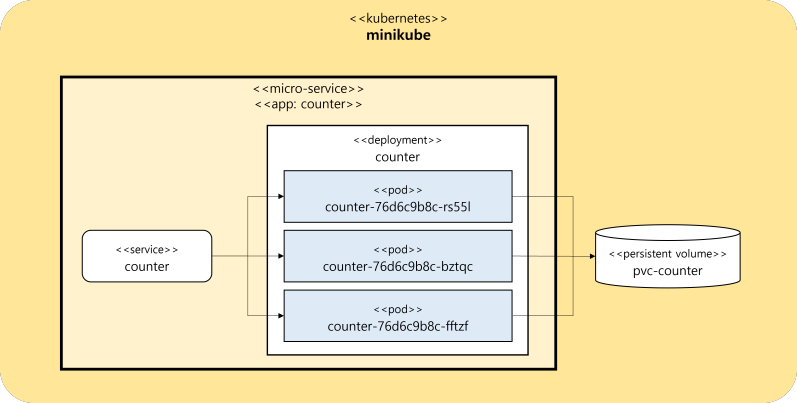
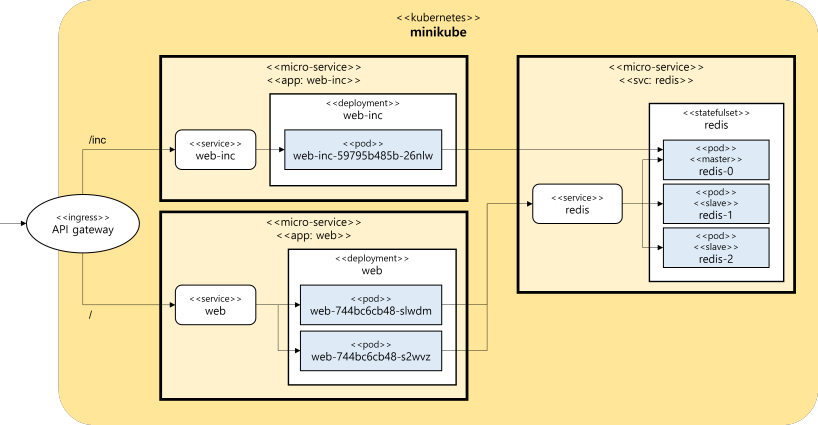
v4. Counter with Redis DB

diff --git a/server-inc.js b/server-inc.js
@@ -3,14 +3,14 @@ var redis = require('redis');
 
 http.createServer(function (request, response) {
     var redisClient = redis.createClient({
-        url:'redis://redis.default.svc.cluster.local:6379',
+        url:'redis://redis-0.redis.default.svc.cluster.local:6379',
         legacyMode:true
     });
     redisClient.connect();
 
-    redisClient.get('count', function (err, data) {
+    redisClient.incr('count', function (err, count) {
         response.writeHead(200, {'Content-Type': 'text/plain'});
-        response.end(data);
+        response.end(count.toString());
     });
 }).listen(8081);
 

diff --git a/README.md b/README.md
@@ -1,7 +1,8 @@
 # Kubernetes Example
-간단한 Counter를 만들고 Kubernetes에 배포한다.<p>
-count는 Persistent Volume에 count.txt에 저장한다.<p>
-<img src="https://github.com/bosornd/k8s-example/raw/v3-counter/images/deployment.png" width=100% />
+Redis DB를 master-slave로 구성하고 count를 저장한다.<p>
+count를 증가시키는 webInc와 count 값을 전달하는 web 서버를 별도로 구성한다.<p>
+Ingress API Gateway를 설정한다.<p>
+<img src="https://github.com/bosornd/k8s-example/raw/v4-counter-with-redis/images/deployment.png" width=100% />
 
 
 # minikube (Kubernetes cluster) 시작하기
@@ -9,33 +10,9 @@ count는 Persistent Volume에 count.txt에 저장한다.<p>
 C:\k8s-example> minikube start
 ```
 
-# docker image 빌드하기
-docker 환경을 minikube로 변경한다.
+ingress를 사용하기 위해서 addon을 활성화 해야 한다.
 ```
-C:\k8s-example> minikube docker-env
-SET DOCKER_TLS_VERIFY=1
-SET DOCKER_HOST=tcp://127.0.0.1:60807
-SET DOCKER_CERT_PATH=C:\Users\drajin\.minikube\certs
-SET MINIKUBE_ACTIVE_DOCKERD=minikube
-REM To point your shell to minikube's docker-daemon, run:
-REM @FOR /f "tokens=*" %i IN ('minikube -p minikube docker-env --shell cmd') DO @%i
-
-C:\k8s-example> @FOR /f "tokens=*" %i IN ('minikube -p minikube docker-env --shell cmd') DO @%i
-```
-
-docker image를 빌드한다.
-```
-C:\k8s-example> docker build -t counter:v1 .
-```
-
-최신 버전을 latest로 태그한다.
-```
-C:\k8s-example> docker tag counter:v1 counter:latest
-```
-
-# 쿠버네티스에 배포하기
-```
-C:\k8s-example> kubectl apply -f counter-deployment.yaml
+C:\k8s-example> minikube addons enable ingress
 ```
 
 # Skaffold
@@ -45,7 +22,21 @@ C:\k8s-example> skaffold run
 ```
 
 # 테스트
-web-service를 localhost로 터널링 한다. 브라우저로 확인한다.
+ingress를 localhost로 터널링 한다.
 ```
-C:\k8s-example> minikube service counter
+C:\k8s-example> minikube tunnel
+```
+
+브라우저나 curl로 확인한다.
+```
+C:\k8s-example> curl localhost/inc
+1
+C:\k8s-example> curl localhost/inc
+2
+C:\k8s-example> curl localhost/inc
+3
+C:\k8s-example> curl localhost
+3
+C:\k8s-example> curl localhost
+3
 ```
